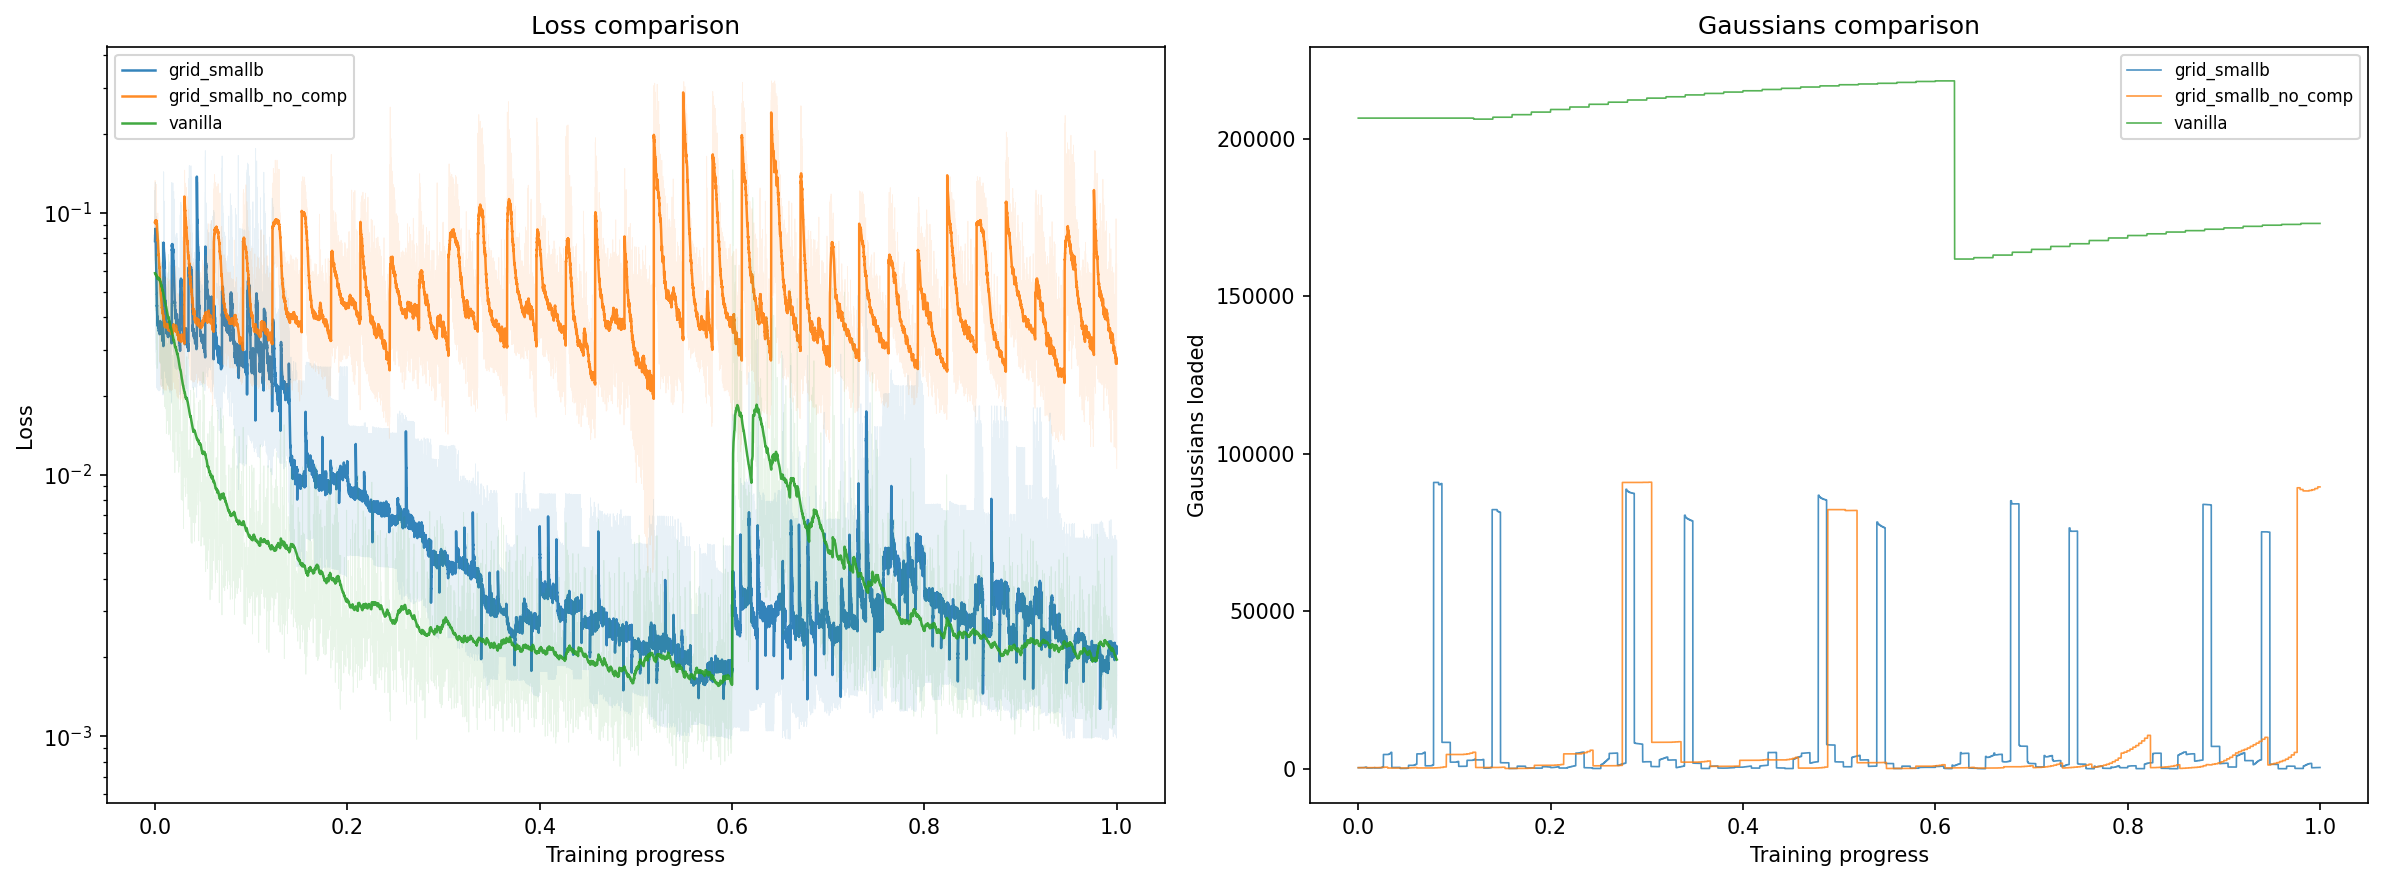
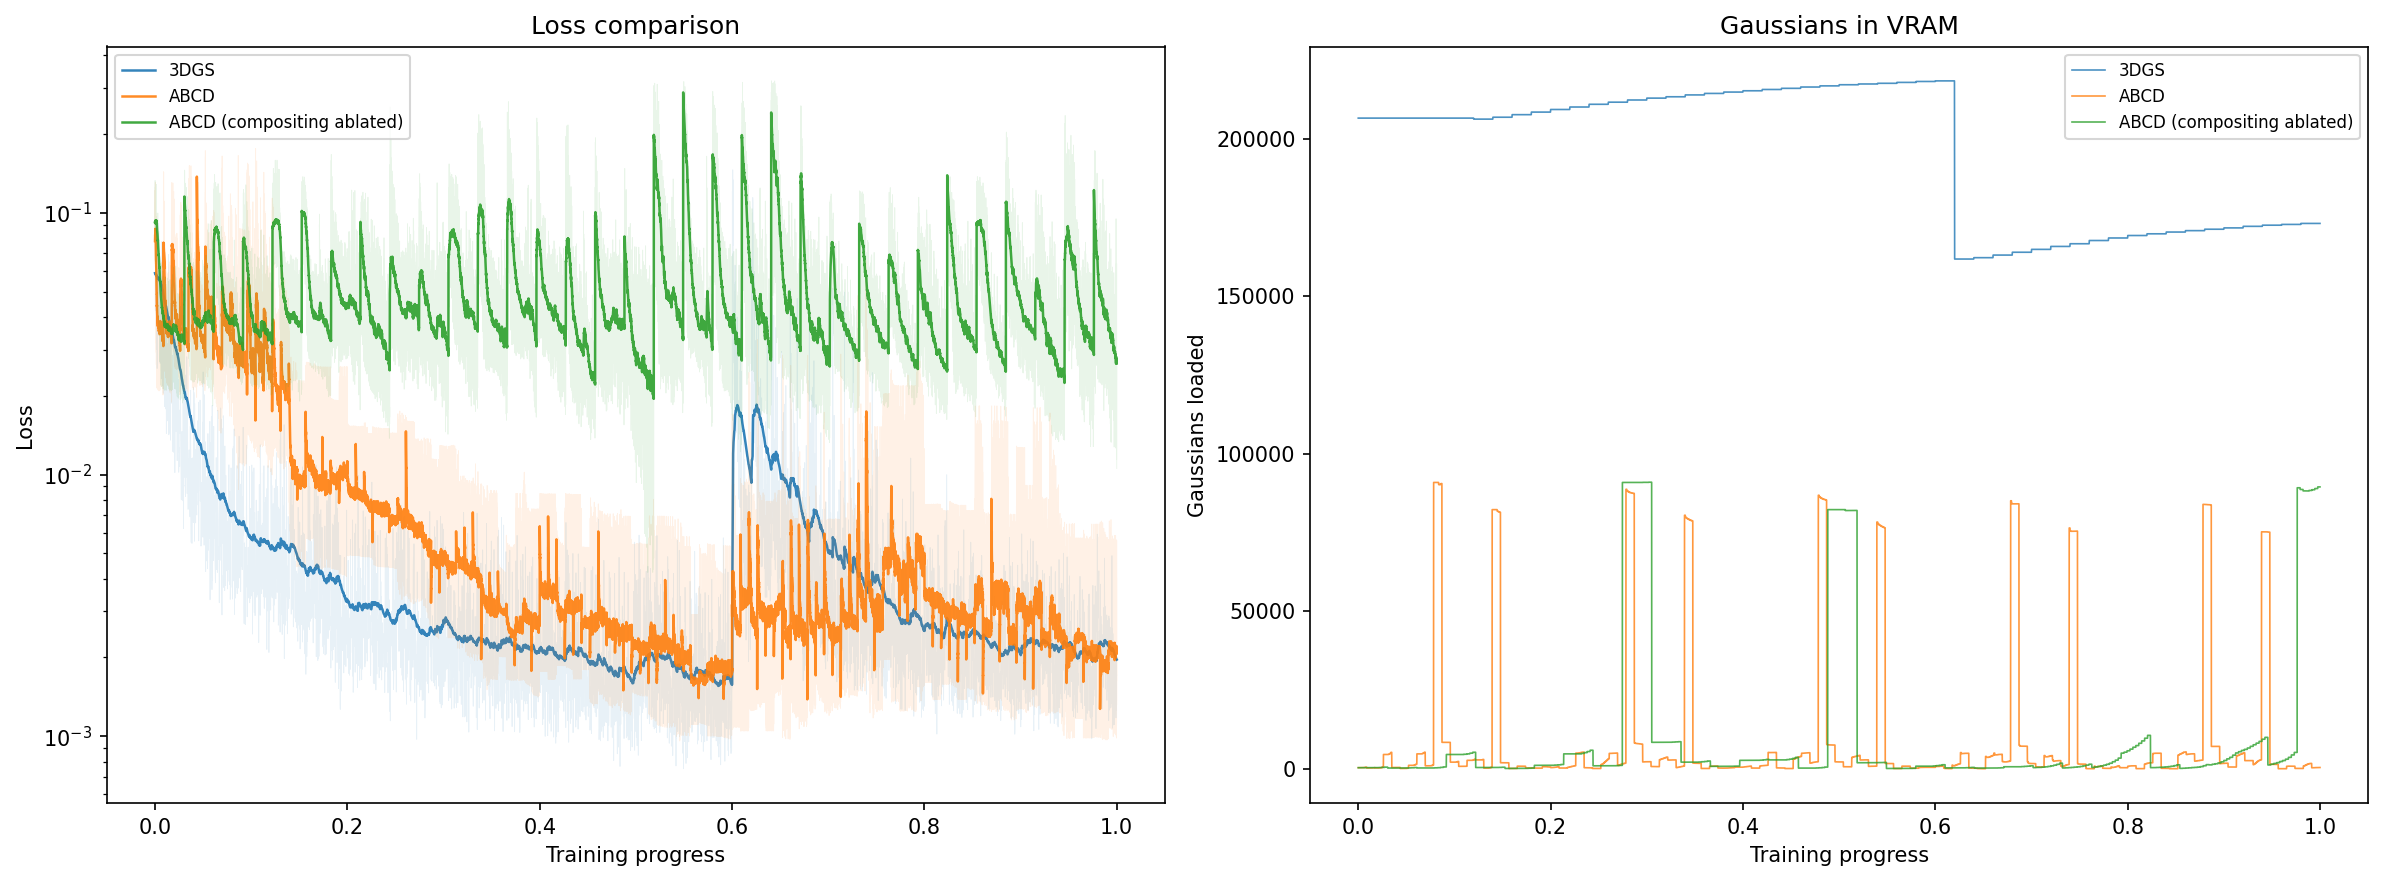
split paper comparison plots

diff --git a/scripts/plot_comparison.py b/scripts/plot_comparison.py
@@ -18,6 +18,12 @@ import os
 import matplotlib.pyplot as plt
 import tyro
 
+LEGEND_NAMES = {
+    "grid_smallb": "ABCD",
+    "grid_smallb_no_comp": "ABCD (compositing ablated)",
+    "vanilla": "3DGS",
+}
+
 
 def load_experiment(jsonl_path: str):
     iters = []
@@ -98,49 +104,54 @@ def main(
         print(f"  {len(data['iterations'])} iteration records")
 
     colors = plt.cm.tab10(range(len(exps)))
+    figsize = (4.5, 3.0)
 
-    fig, (ax_loss, ax_gauss) = plt.subplots(1, 2, figsize=(16, 6))
-
+    # Loss plot
+    fig, ax = plt.subplots(figsize=figsize)
     for (name, data), color in zip(exps, colors):
+        label = LEGEND_NAMES.get(name, name)
         iters = data["iterations"]
         progress = _normalize(iters)
-        gaussians = data["gaussians"]
         losses = data["losses"]
         cells = data["cells"]
         has_switch = _has_switches(cells)
-
-        # Loss plot (log scale)
         if any(v is not None for v in losses):
             if smooth_alpha > 0 and has_switch:
                 siters, sloss = _smooth_per_segment(iters, losses, cells, smooth_alpha)
                 sprog = _normalize(siters)
-                ax_loss.plot(progress, losses, alpha=0.1, linewidth=0.4, color=color)
-                ax_loss.plot(sprog, sloss, alpha=0.9, linewidth=1.2, color=color, label=name)
+                ax.plot(progress, losses, alpha=0.1, linewidth=0.4, color=color)
+                ax.plot(sprog, sloss, alpha=0.9, linewidth=1.2, color=color, label=label)
             elif smooth_alpha > 0:
                 sloss = _ema_smooth(losses, smooth_alpha)
-                ax_loss.plot(progress, losses, alpha=0.1, linewidth=0.4, color=color)
-                ax_loss.plot(progress, sloss, alpha=0.9, linewidth=1.2, color=color, label=name)
+                ax.plot(progress, losses, alpha=0.1, linewidth=0.4, color=color)
+                ax.plot(progress, sloss, alpha=0.9, linewidth=1.2, color=color, label=label)
             else:
-                ax_loss.plot(progress, losses, alpha=0.8, linewidth=0.8, color=color, label=name)
-
-        # Gaussians plot
-        if any(v is not None for v in gaussians):
-            ax_gauss.plot(progress, gaussians, alpha=0.8, linewidth=0.8, color=color, label=name)
-
-    ax_loss.set_xlabel("Training progress")
-    ax_loss.set_ylabel("Loss")
-    ax_loss.set_yscale("log")
-    ax_loss.legend(fontsize=8)
-    ax_loss.set_title("Loss comparison")
-
-    ax_gauss.set_xlabel("Training progress")
-    ax_gauss.set_ylabel("Gaussians loaded")
-    ax_gauss.legend(fontsize=8)
-    ax_gauss.set_title("Gaussians comparison")
-
+                ax.plot(progress, losses, alpha=0.8, linewidth=0.8, color=color, label=label)
+    ax.set_xlabel("Training progress")
+    ax.set_ylabel("Loss")
+    ax.set_yscale("log")
+    ax.legend(fontsize=6)
     plt.tight_layout()
-    out = os.path.join(output_dir, "comparison.png")
-    fig.savefig(out, dpi=150, bbox_inches="tight")
+    out = os.path.join(output_dir, "loss_comparison.png")
+    fig.savefig(out, dpi=200, bbox_inches="tight")
+    plt.close()
+    print(f"Saved: {out}")
+
+    # Gaussians plot
+    fig, ax = plt.subplots(figsize=figsize)
+    for (name, data), color in zip(exps, colors):
+        label = LEGEND_NAMES.get(name, name)
+        iters = data["iterations"]
+        progress = _normalize(iters)
+        gaussians = data["gaussians"]
+        if any(v is not None for v in gaussians):
+            ax.plot(progress, gaussians, alpha=0.8, linewidth=0.8, color=color, label=label)
+    ax.set_xlabel("Training progress")
+    ax.set_ylabel("Gaussians loaded")
+    ax.legend(fontsize=6)
+    plt.tight_layout()
+    out = os.path.join(output_dir, "gaussians_comparison.png")
+    fig.savefig(out, dpi=200, bbox_inches="tight")
     plt.close()
     print(f"Saved: {out}")
 
